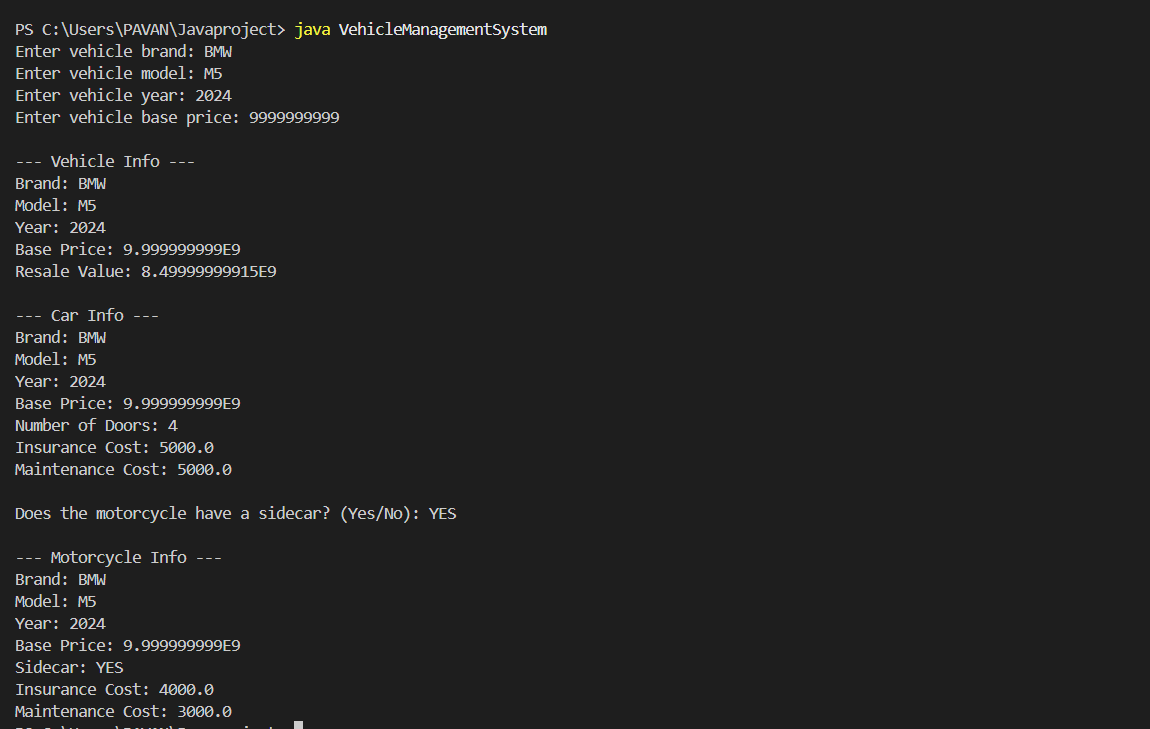
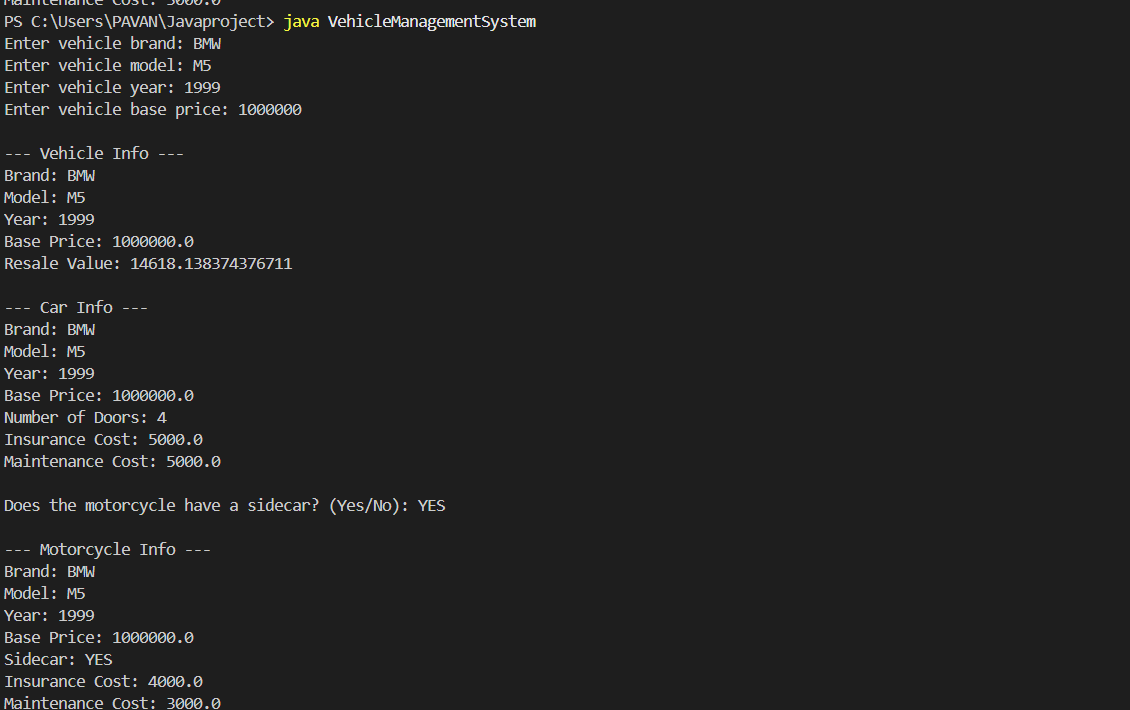
Inheritance

Changed region(s): [[0.0, 0.0, 0.4956, 1.0], [0.2478, 0.9915, 0.2788, 1.0]]

diff --git a/VehicleManagementSystem.java b/VehicleManagementSystem.java
@@ -1,4 +1,5 @@
 import java.util.Scanner;
+import java.time.Year;
 
 class Vehicle {
     String brand;
@@ -23,7 +24,9 @@ class Vehicle {
     }
 
     void calculateResaleValue() {
-        double resaleValue = baseprice * 0.85;
+        int currentyear = Year.now().getValue();
+        int age = currentyear - year;
+        double resaleValue = baseprice * Math.pow(0.85,age);
         System.out.println("Resale Value: " + resaleValue);
     }
 }
